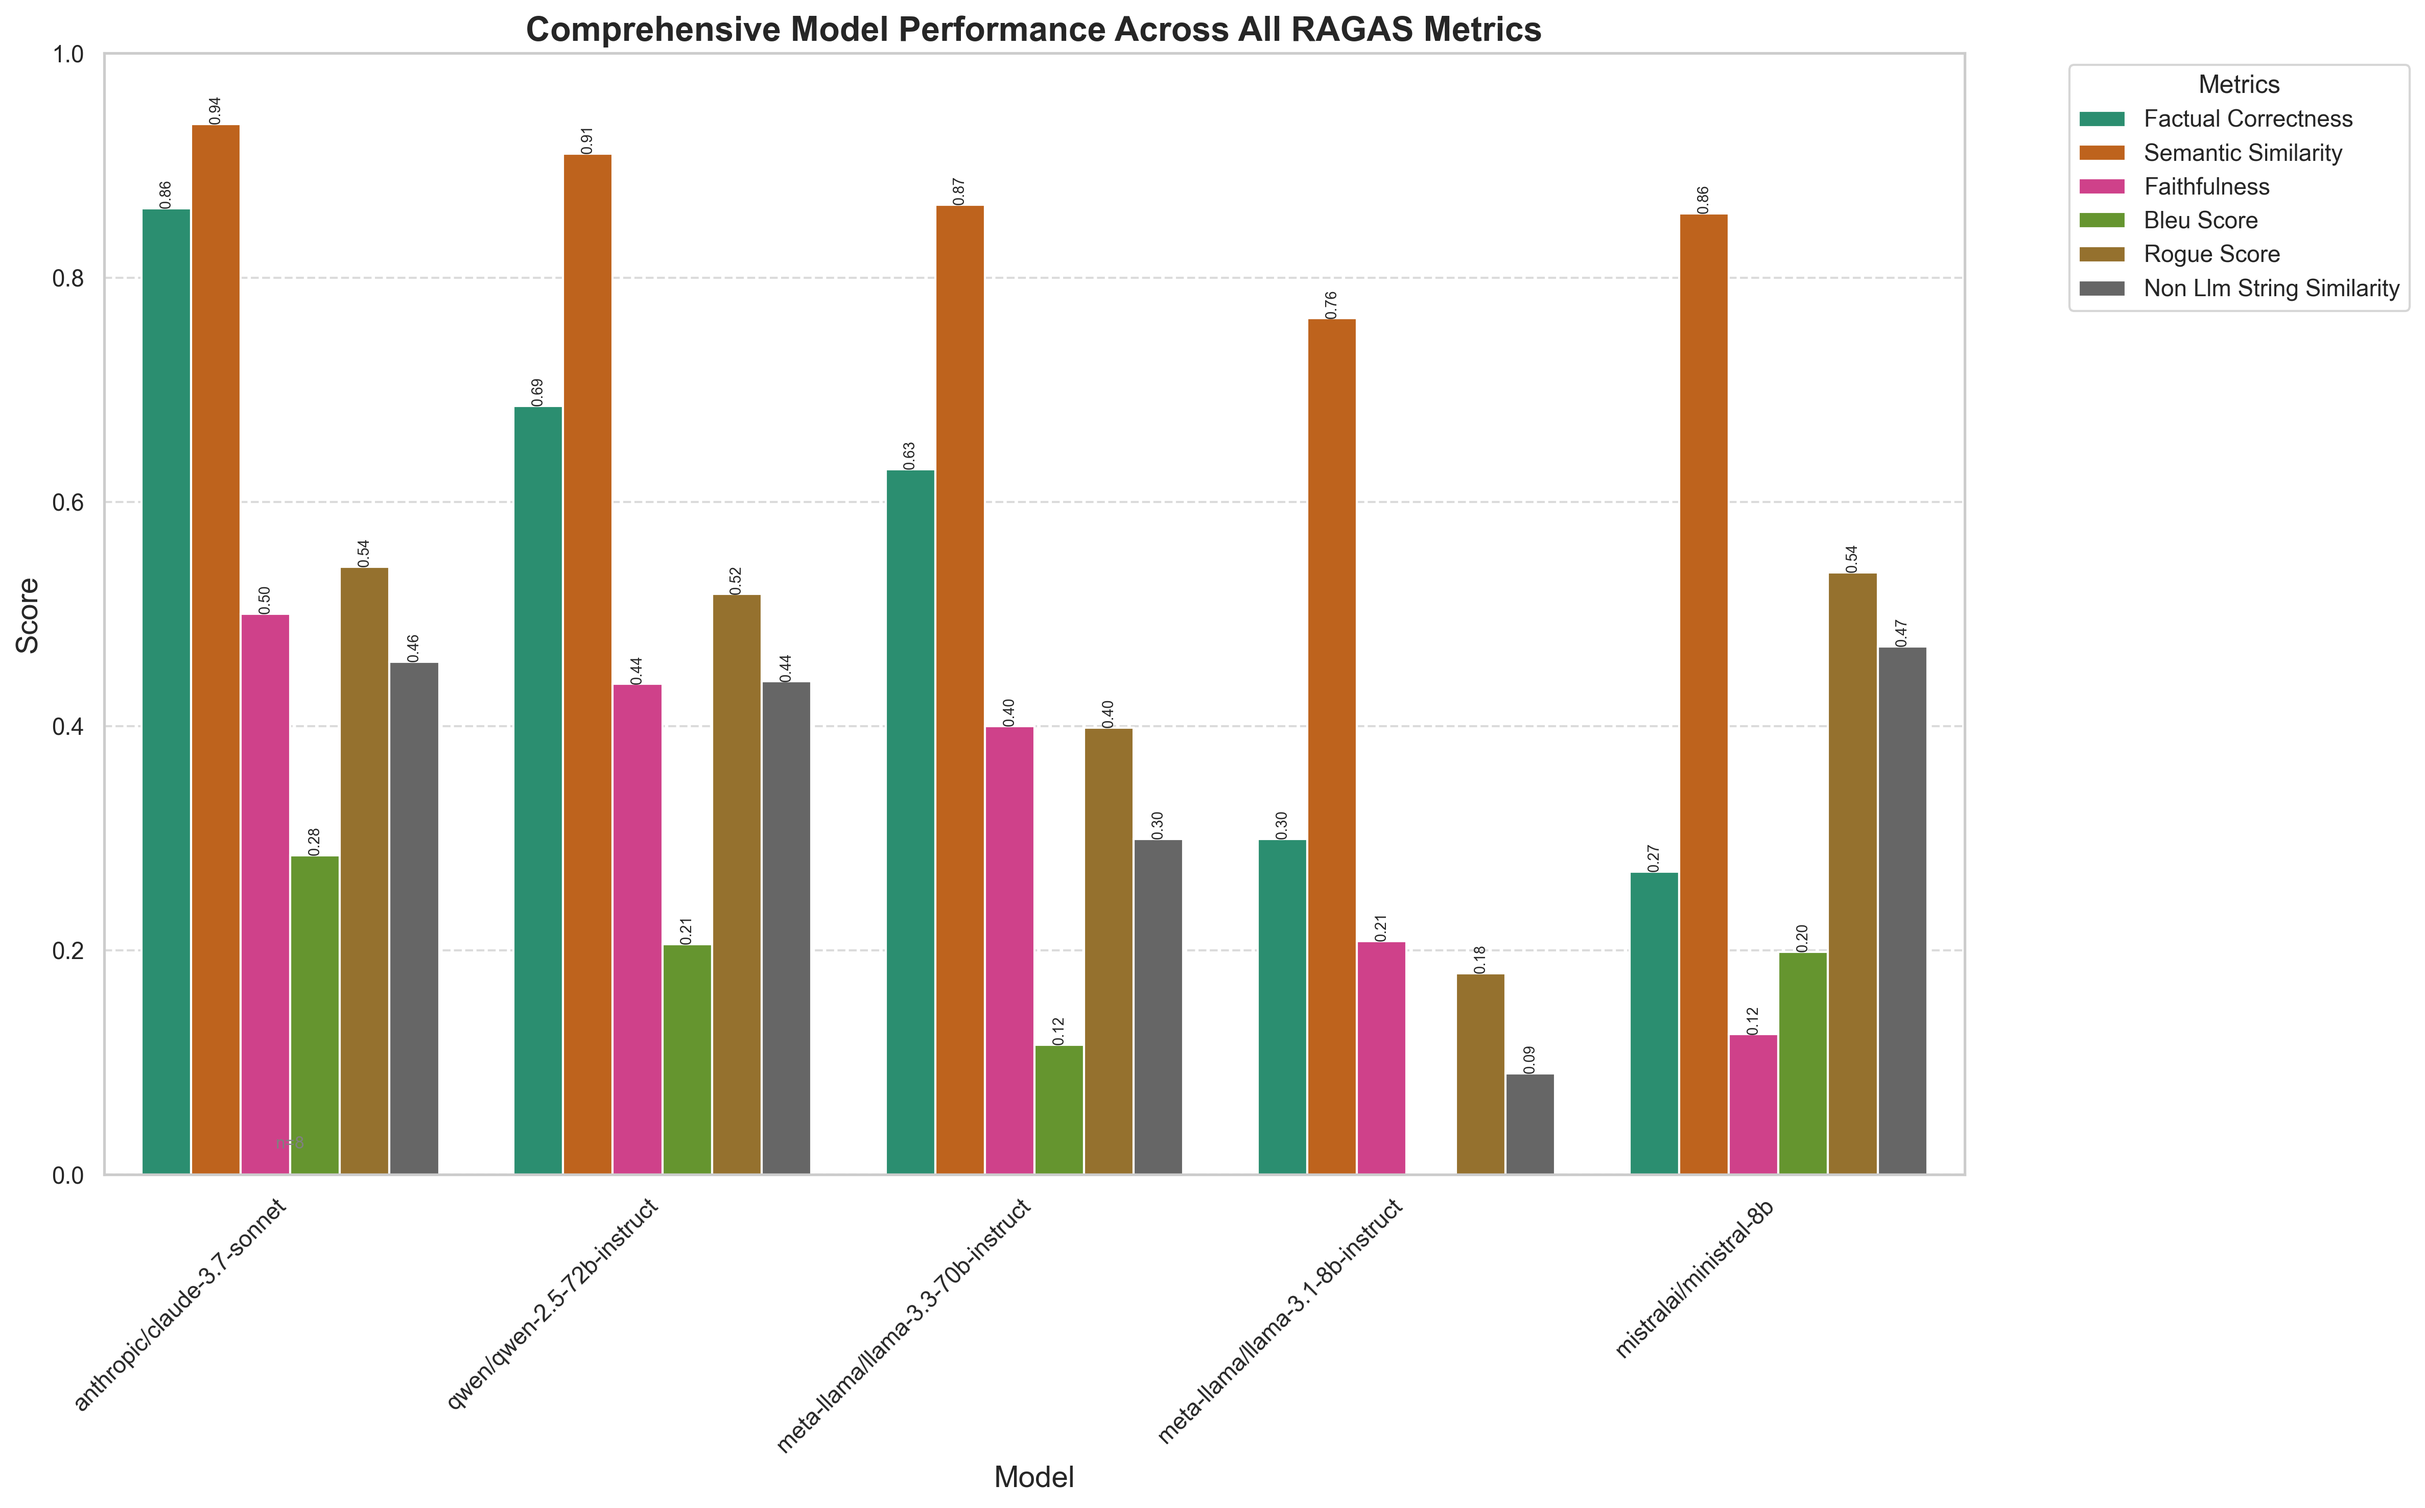
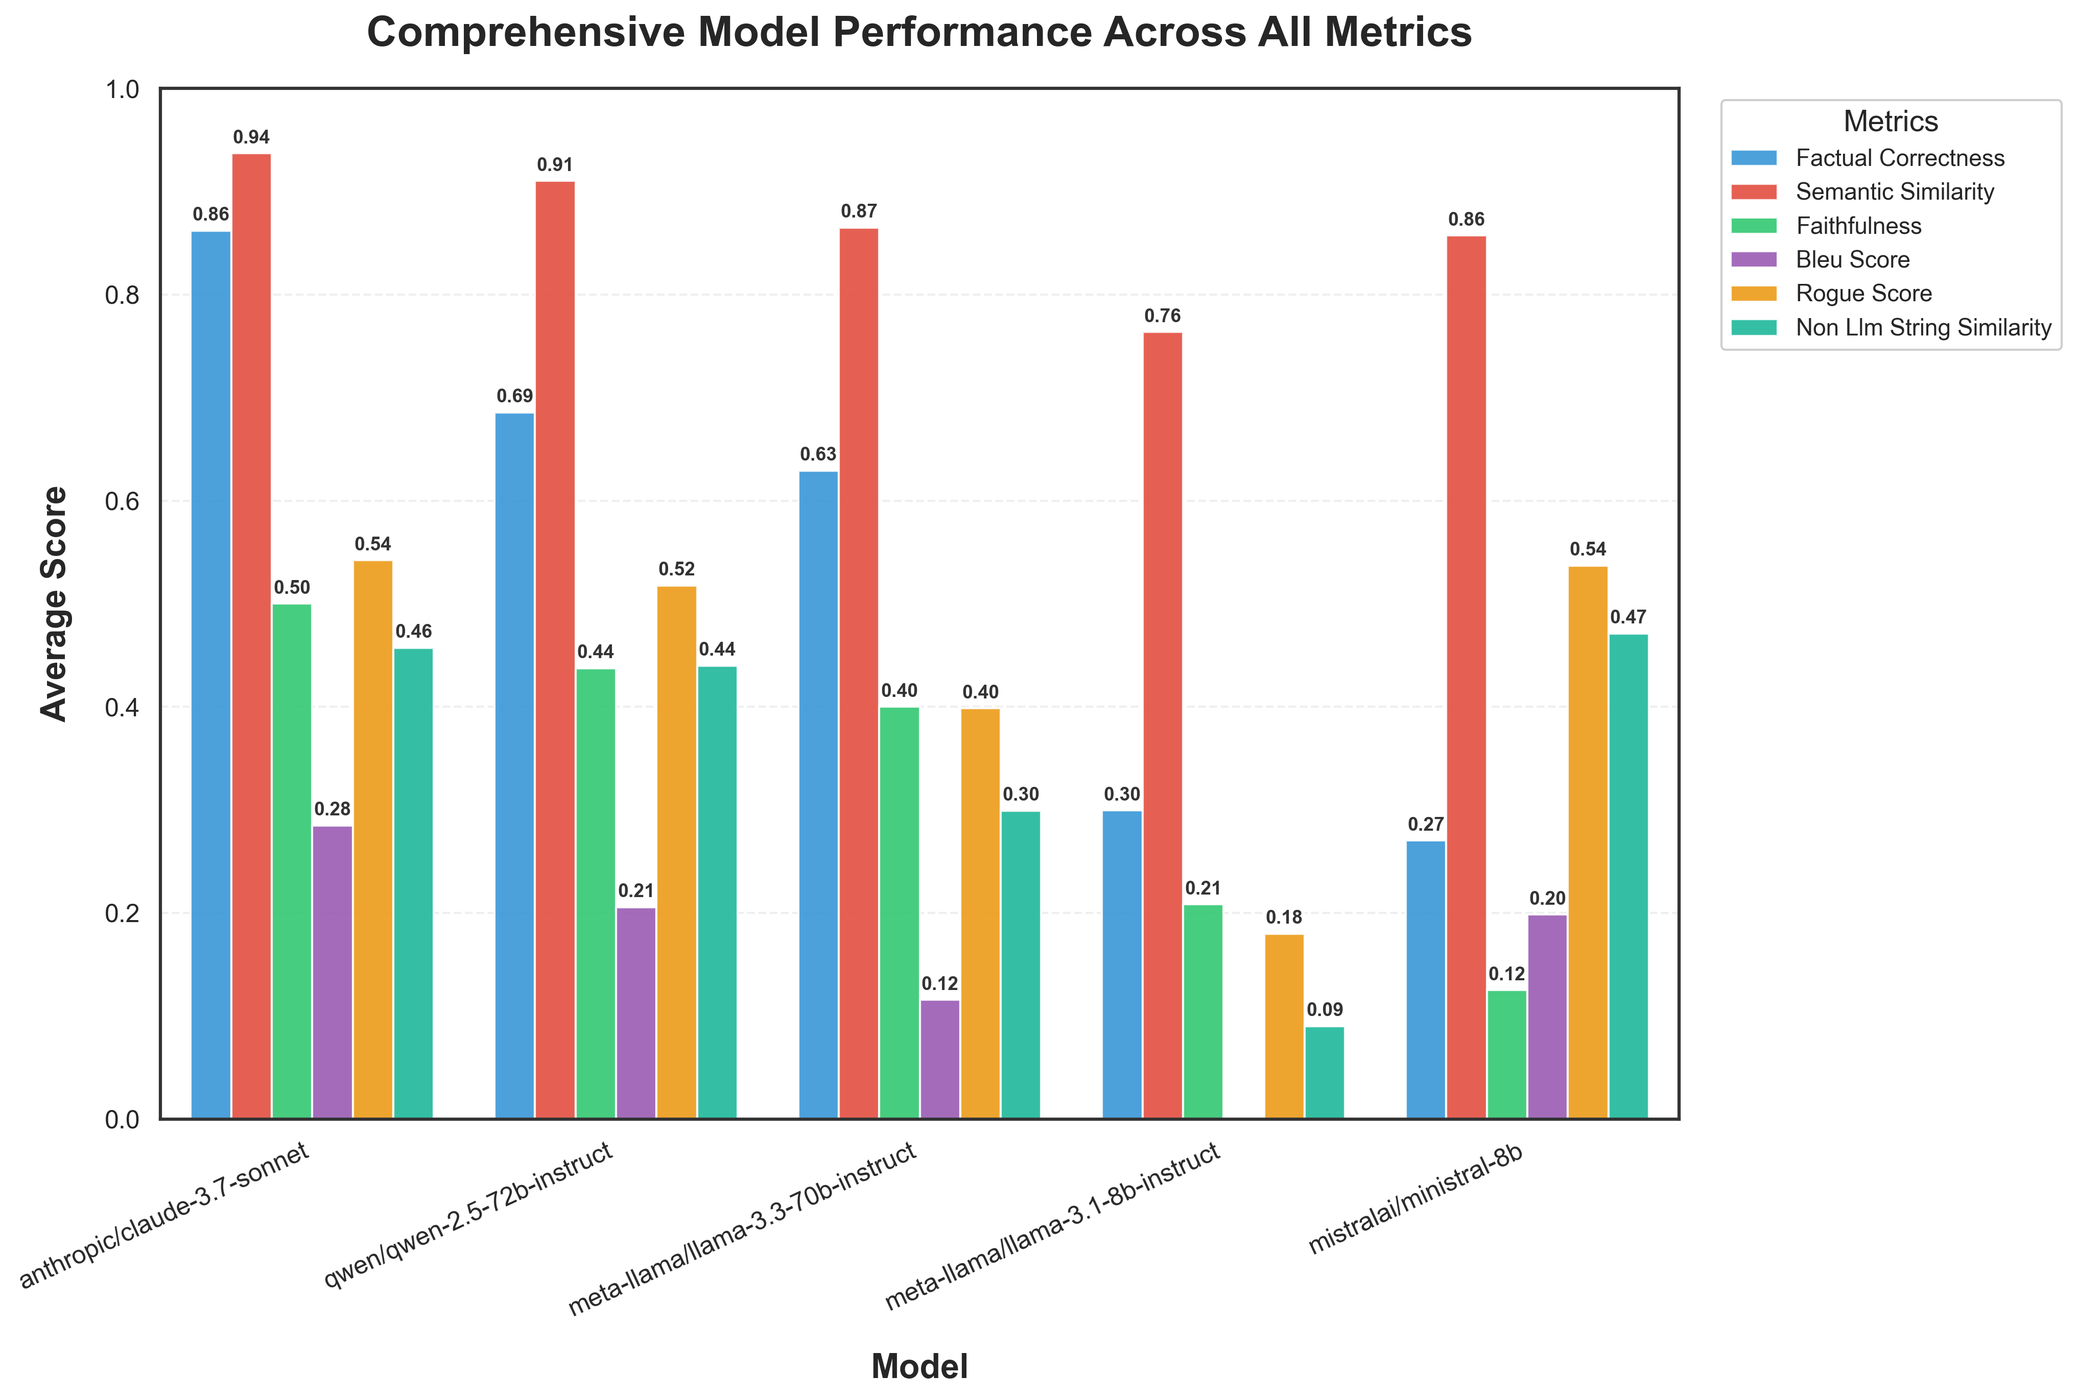
Enhance charts all _models _all _metrics

diff --git a/backend/app/utils/chart_generator.py b/backend/app/utils/chart_generator.py
@@ -1004,59 +1004,137 @@ class ChartGenerator:
             lambda x: ' '.join(word.capitalize() for word in x.split('_'))
         )
         
-        # Create figure
-        plt.figure(figsize=(16, 10), facecolor='white')
+        # Close any existing figures
+        plt.close('all')
         
-        # Use a more distinct color palette
-        palette = plt.cm.Dark2(np.linspace(0, 1, len(metrics)))
+        # Calculate dynamic figure size based on number of models and metrics
+        model_count = len(df['model_name'].unique())
+        metric_count = len(metrics)
         
-        # Create grouped bar chart
+        # Base width plus additional width for more metrics
+        width = max(16, 12 + metric_count * 0.5)
+        # Base height plus additional height for more models
+        height = max(10, 6 + model_count * 0.8)
+        
+        # Create figure with white background
+        fig, ax = plt.subplots(figsize=(width, height), facecolor='white', dpi=150)
+        
+        # Create custom blue color palette that matches the application theme
+        # Using colors from light to dark blue for better distinction
+        from matplotlib.colors import LinearSegmentedColormap
+        
+        # Define the number of distinct colors needed (one per metric)
+        n_colors = len(metrics)
+        
+        # Create a vibrant and diverse color palette instead of just blues
+        # This palette provides better distinction between metrics
+        vibrant_colors = [
+            "#3498db",  # Blue
+            "#e74c3c",  # Red
+            "#2ecc71",  # Green
+            "#9b59b6",  # Purple
+            "#f39c12",  # Orange
+            "#1abc9c",  # Turquoise
+            "#d35400",  # Dark Orange
+            "#34495e",  # Navy Blue
+            "#16a085",  # Teal
+            "#c0392b",  # Dark Red
+            "#8e44ad",  # Violet
+            "#27ae60"   # Emerald
+        ]
+        
+        # Extend the palette if we have more metrics than colors
+        if n_colors > len(vibrant_colors):
+            vibrant_colors = vibrant_colors * (n_colors // len(vibrant_colors) + 1)
+        
+        # Use only as many colors as needed
+        custom_colors = vibrant_colors[:n_colors]
+        
+        # Create grouped bar chart with custom colors
         ax = sns.barplot(
             data=df_melted,
             x='model_name',
             y='Score',
             hue='Metric',
-            palette=palette
+            palette=custom_colors,
+            saturation=0.95,
+            dodge=True,
+            alpha=0.9
         )
         
         # Add labels and title
-        plt.title('Comprehensive Model Performance Across All RAGAS Metrics', fontsize=16, fontweight='bold')
-        plt.xlabel('Model', fontsize=14)
-        plt.ylabel('Score', fontsize=14)
+        ax.set_title('Comprehensive Model Performance Across All Metrics', 
+                   fontsize=20, 
+                   fontweight='bold',
+                   pad=20)
+        ax.set_xlabel('Model', fontsize=16, fontweight='bold', labelpad=15)
+        ax.set_ylabel('Average Score', fontsize=16, fontweight='bold', labelpad=15)
         
-        # Rotate x-axis labels for better readability
-        plt.xticks(rotation=45, ha='right')
+        # Dynamic x-label rotation based on number of models
+        rotation = min(45, max(0, model_count * 5))  # 0° for few models, up to 45° for many
+        plt.xticks(rotation=rotation, ha='right' if rotation > 0 else 'center', fontsize=12)
         
-        # Add the number of queries per model
+        # Improve y-axis ticks
+        plt.yticks(fontsize=12)
+        
+        # Add the number of queries per model with better formatting
         model_positions = {model: i for i, model in enumerate(df['model_name'].unique())}
         for model, count in zip(df['model_name'].unique(), df['query_count'].unique()):
+            # Add counts at the bottom of the chart with improved visual appeal
             ax.annotate(f'n={count}',
-                      (model_positions[model], 0.02),
-                      ha='center', va='bottom',
-                      fontsize=8, color='gray')
+                      xy=(model_positions[model], -0.02),
+                      xytext=(0, -10),  # Offset below x-axis
+                      textcoords='offset points',
+                      ha='center', va='top',
+                      fontsize=10, fontweight='bold',
+                      color='#555555',
+                      bbox=dict(boxstyle="round,pad=0.3", fc="white", ec="none", alpha=0.8))
         
-        # Add legend outside the plot with better formatting
-        plt.legend(title='Metrics', bbox_to_anchor=(1.05, 1), loc='upper left', frameon=True)
+        # Add legend with improved formatting
+        legend = plt.legend(
+            title='Metrics', 
+            bbox_to_anchor=(1.02, 1),  # Position outside the plot
+            loc='upper left',
+            frameon=True,
+            fontsize=11,
+            title_fontsize=14,
+            framealpha=0.95,
+            edgecolor='#cccccc'
+        )
         
-        # Add grid for easier reading
-        plt.grid(axis='y', linestyle='--', alpha=0.7)
+        # Add grid for better readability
+        plt.grid(axis='y', linestyle='--', alpha=0.3, zorder=0)
         
         # Ensure all bars are visible by adjusting y-axis to start at 0
-        plt.ylim(0, 1.0)
+        # Add 10% padding at the top for labels
+        max_score = df_melted['Score'].max()
+        ax.set_ylim(0, min(1.0, max_score * 1.15))
         
-        # Add value labels on top of each bar
+        # Add value labels on top of each bar with improved formatting
         for p in ax.patches:
-            if p.get_height() > 0.05:  # Only label bars with significant height
-                ax.annotate(f'{p.get_height():.2f}', 
-                          (p.get_x() + p.get_width() / 2., p.get_height()),
-                          ha='center', va='bottom',
-                          fontsize=7, rotation=90)
+            height = p.get_height()
+            if height > 0.05:  # Only label bars with significant height
+                ax.annotate(
+                    f'{height:.2f}', 
+                    xy=(p.get_x() + p.get_width() / 2, height),
+                    xytext=(0, 3),  # 3 points vertical offset
+                    textcoords="offset points",
+                    ha='center', va='bottom',
+                    fontsize=9, fontweight='bold',
+                    color='#333333',
+                    bbox=dict(boxstyle="round,pad=0.1", fc="white", ec="none", alpha=0.8)
+                )
+        
+        # Add border around the plot for better definition
+        for spine in ax.spines.values():
+            spine.set_linewidth(1.5)
+            spine.set_color('#333333')
         
         # Adjust layout
-        plt.tight_layout()
+        plt.tight_layout(rect=[0, 0.05, 0.85, 0.98])
         
-        # Save the figure
-        return self._save_figure("all_models_all_metrics", dpi=300)
+        # Save the figure with high DPI for quality
+        return self._save_figure("all_models_all_metrics", fig=fig, dpi=300)
         
     def ragas_radar_chart(self) -> str:
         """
@@ -1494,10 +1572,6 @@ class ChartGenerator:
             ncol=min(len(legend_colors), 5),  # Ensure the legend isn't too wide
             frameon=True
         )
-        
-        # Add a note about averaging
-        plt.figtext(0.5, -0.01, "Note: Values represent the average score across multiple evaluations of the same question",
-                   ha="center", fontsize=10, fontstyle="italic")
         
         # Adjust layout to make room for the legend and note
         plt.tight_layout()
